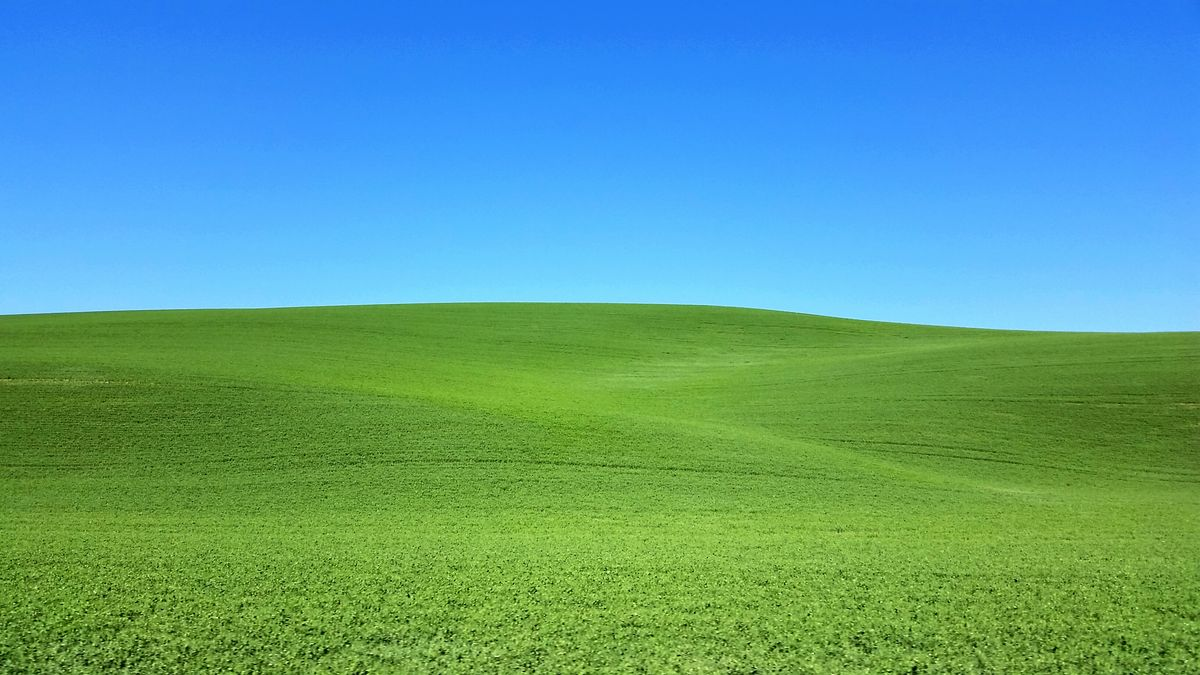
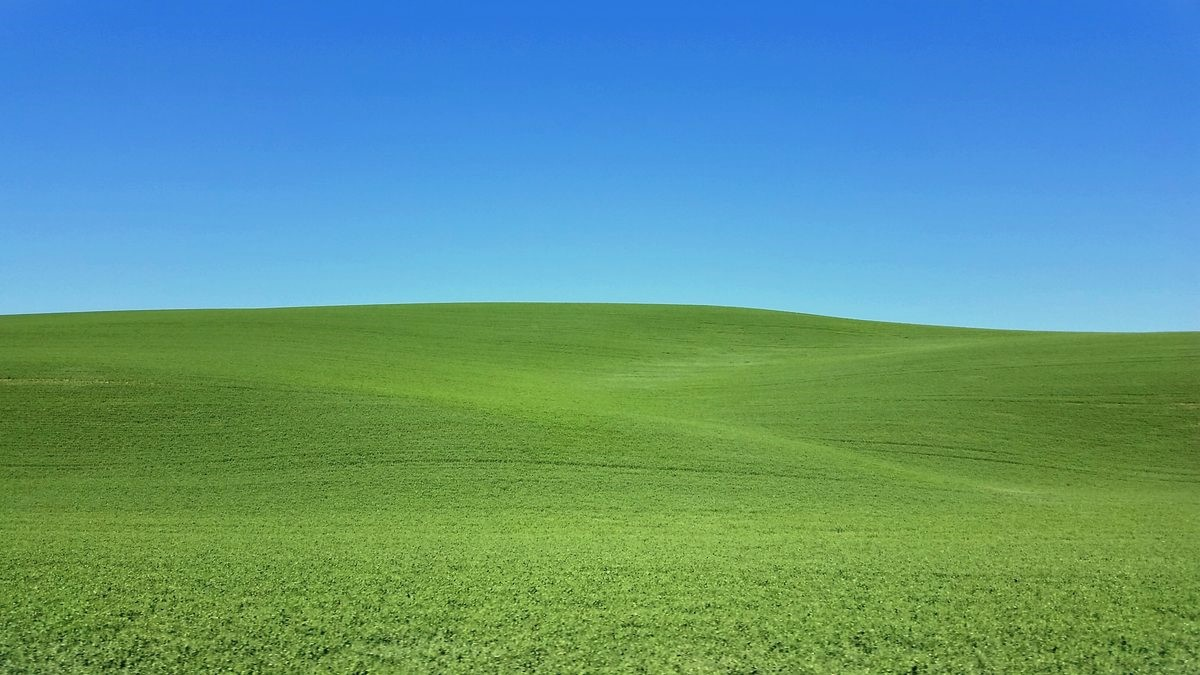
배경 변경

diff --git a/index.html b/index.html
@@ -154,7 +154,7 @@
                 <div class="folder-inserts">
 
                     <!-- Insert 1: UXUI DESIGN (Purple Starburst) -->
-                    <a href="#uxui" class="insert-uxui" id="insert-uxui" title="UX/UI Design Portfolio">
+                    <a href="subpage.html" class="insert-uxui" id="insert-uxui" title="UX/UI Design Portfolio">
                         <div class="starburst-container">
                             <svg width="100%" height="100%" viewBox="0 0 160 160">
                                 <polygon id="starburst-uxui" points="" fill="#9a679c" />
@@ -166,14 +166,14 @@
                     </a>
 
                     <!-- Insert 2: LAYOUT (Pink Oval) -->
-                    <a href="#layout" class="insert-layout" id="insert-layout" title="Layout Design Portfolio">
+                    <a href="subpage.html" class="insert-layout" id="insert-layout" title="Layout Design Portfolio">
                         <div class="oval-shape">
                             <span>LAYOUT</span>
                         </div>
                     </a>
 
                     <!-- Insert 3: IDEA (Green Starburst) -->
-                    <a href="#idea" class="insert-idea" id="insert-idea" title="Idea & Strategy Portfolio">
+                    <a href="subpage.html" class="insert-idea" id="insert-idea" title="Idea & Strategy Portfolio">
                         <div class="starburst-container">
                             <svg width="100%" height="100%" viewBox="0 0 160 160">
                                 <polygon id="starburst-idea" points="" fill="#52c383" />
@@ -185,7 +185,7 @@
                     </a>
 
                     <!-- Insert 4: BRANDING (Orange Dome) -->
-                    <a href="#branding" class="insert-branding" id="insert-branding" title="Branding Portfolio">
+                    <a href="subpage.html" class="insert-branding" id="insert-branding" title="Branding Portfolio">
                         <div class="dome-shape">
                             <span>BRANDING</span>
                         </div>